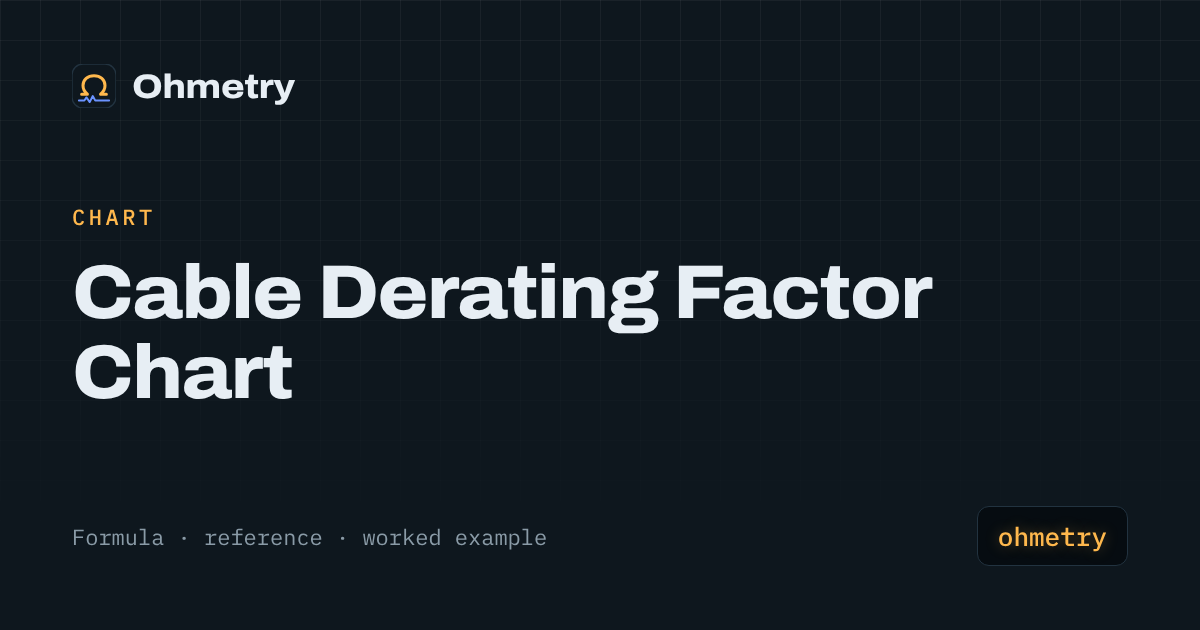
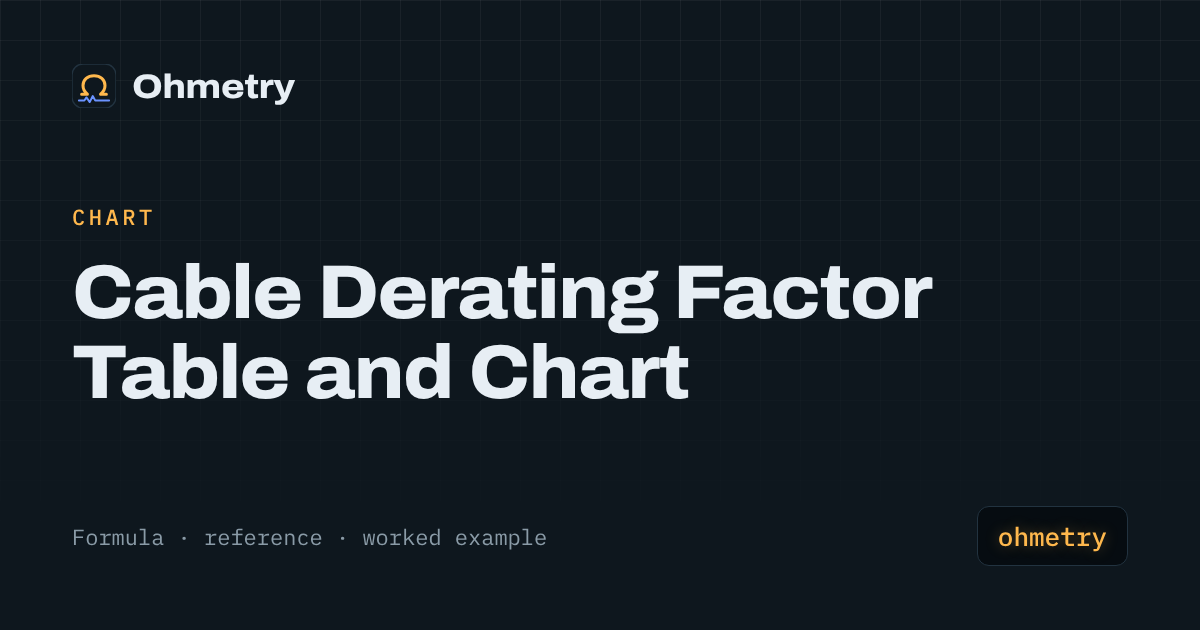
Add neutral conductor current calculator and page; retitle derating chart as a table; shorten megger title
Neutral current from unbalanced phases (phasor sum) and third-harmonic load (3kI1), with tests.
Derating chart title and description now include 'table' and 'de-rating' to match search queries.

Claude-Session: https://claude.ai/code/session_01P7VZ8UCLuzA13PXkdqGsAp

Changed region(s): [[0.0617, 0.5429, 0.5858, 0.6333]]

diff --git a/src/lib/calc/neutral-current.test.ts b/src/lib/calc/neutral-current.test.ts
@@ -1,0 +1,50 @@
+import { describe, expect, it } from 'vitest';
+import { neutralFromPhases, neutralFromThirdHarmonic } from './neutral-current';
+
+describe('neutralFromPhases (unbalanced load, 120 degree phasors)', () => {
+  it('is zero when the phases are balanced', () => {
+    expect(neutralFromPhases(100, 100, 100)).toBeCloseTo(0, 9);
+  });
+  it('equals the phase current when only one phase is loaded', () => {
+    expect(neutralFromPhases(100, 0, 0)).toBeCloseTo(100, 9);
+  });
+  it('equals the phase current when two equal phases are loaded', () => {
+    expect(neutralFromPhases(100, 100, 0)).toBeCloseTo(100, 9);
+  });
+  it('matches the phasor sum for 100, 50, 0 A: sqrt(7500) = 86.60 A', () => {
+    // 100 at 0 deg plus 50 at -120 deg = 75 - j43.30, magnitude 86.60
+    expect(neutralFromPhases(100, 50, 0)).toBeCloseTo(86.6025, 4);
+  });
+  it('does not depend on which phase carries which current', () => {
+    expect(neutralFromPhases(30, 80, 55)).toBeCloseTo(neutralFromPhases(80, 55, 30), 9);
+  });
+  it('rejects negative and non-numeric input', () => {
+    expect(() => neutralFromPhases(-1, 0, 0)).toThrow();
+    expect(() => neutralFromPhases(NaN, 0, 0)).toThrow();
+  });
+});
+
+describe('neutralFromThirdHarmonic (balanced circuit)', () => {
+  it('is zero with no 3rd harmonic', () => {
+    const r = neutralFromThirdHarmonic(100, 0);
+    expect(r.neutralA).toBe(0);
+    expect(r.fundamentalA).toBeCloseTo(100, 9);
+  });
+  it('gives 94.87 A in the neutral for 100 A per phase with a 33.3 % third harmonic', () => {
+    // I1 = 100 / sqrt(1 + 1/9) = 94.868; neutral = 3 * (1/3) * 94.868
+    const r = neutralFromThirdHarmonic(100, 100 / 3);
+    expect(r.fundamentalA).toBeCloseTo(94.8683, 3);
+    expect(r.neutralA).toBeCloseTo(94.8683, 3);
+    expect(r.ratioToPhase).toBeCloseTo(0.9487, 4);
+  });
+  it('gives a neutral larger than the phase current for a 50 % third harmonic: 134.16 A from 100 A', () => {
+    // I1 = 100 / sqrt(1.25) = 89.443; neutral = 3 * 0.5 * 89.443 = 134.16
+    const r = neutralFromThirdHarmonic(100, 50);
+    expect(r.neutralA).toBeCloseTo(134.164, 2);
+    expect(r.ratioToPhase).toBeCloseTo(1.3416, 4);
+  });
+  it('rejects invalid input', () => {
+    expect(() => neutralFromThirdHarmonic(0, 10)).toThrow();
+    expect(() => neutralFromThirdHarmonic(100, -5)).toThrow();
+  });
+});

diff --git a/src/lib/calc/neutral-current.ts b/src/lib/calc/neutral-current.ts
@@ -1,0 +1,35 @@
+/**
+ * Neutral current in a three-phase four-wire circuit, from two situations that can be derived directly.
+ *
+ * 1. Unbalanced load. With phase currents Ia, Ib, Ic that are 120 degrees apart (the same power factor on each phase)
+ *    and no triplen harmonics, the neutral carries the phasor sum:
+ *      In = sqrt( Ia^2 + Ib^2 + Ic^2 - Ia*Ib - Ib*Ic - Ic*Ia )
+ *
+ * 2. Third-harmonic load on a balanced circuit. Triplen harmonics (3rd, 9th, ...) are in phase on all three phases, so
+ *    they add in the neutral instead of cancelling. For a 3rd harmonic of k times the fundamental on each phase:
+ *      phase RMS  = I1 * sqrt(1 + k^2)
+ *      neutral    = 3 * k * I1
+ *    Harmonics that are not triplen (5th, 7th, ...) cancel in the neutral on a balanced circuit.
+ *
+ * These give the current to size the neutral for. The conductor size, the derating that harmonic currents trigger and
+ * whether the neutral may be smaller than the phase conductors come from the standard in force (IEC 60364, NEC, BS 7671).
+ */
+export function neutralFromPhases(ia: number, ib: number, ic: number): number {
+  if (![ia, ib, ic].every(Number.isFinite)) throw new Error('Enter a number for every phase current');
+  if (ia < 0 || ib < 0 || ic < 0) throw new Error('Phase currents cannot be negative');
+  const v = ia * ia + ib * ib + ic * ic - ia * ib - ib * ic - ic * ia;
+  return Math.sqrt(Math.max(0, v));
+}
+
+export interface HarmonicNeutral { fundamentalA: number; neutralA: number; ratioToPhase: number }
+
+/** phaseRmsA is the measured true-RMS current per phase; thirdPct is the 3rd harmonic as a percentage of the fundamental. */
+export function neutralFromThirdHarmonic(phaseRmsA: number, thirdPct: number): HarmonicNeutral {
+  if (![phaseRmsA, thirdPct].every(Number.isFinite)) throw new Error('Enter numbers for the phase current and the 3rd harmonic');
+  if (!(phaseRmsA > 0)) throw new Error('The phase current must be above zero');
+  if (thirdPct < 0) throw new Error('The 3rd harmonic cannot be negative');
+  const k = thirdPct / 100;
+  const fundamentalA = phaseRmsA / Math.sqrt(1 + k * k);
+  const neutralA = 3 * k * fundamentalA;
+  return { fundamentalA, neutralA, ratioToPhase: neutralA / phaseRmsA };
+}

diff --git a/src/components/NeutralCurrent.tsx b/src/components/NeutralCurrent.tsx
@@ -1,0 +1,36 @@
+import { useState } from 'react';
+import { neutralFromPhases, neutralFromThirdHarmonic } from '../lib/calc/neutral-current';
+import { Form, Num, Out, run } from './ui';
+
+export default function NeutralCurrent() {
+  const [a, setA] = useState('100');
+  const [b, setB] = useState('60');
+  const [c, setC] = useState('30');
+  const [ph, setPh] = useState('100');
+  const [h3, setH3] = useState('40');
+  const u = run(() => neutralFromPhases(Number(a), Number(b), Number(c)));
+  const h = run(() => neutralFromThirdHarmonic(Number(ph), Number(h3)));
+  return (
+    <>
+      <Form label="Neutral current from unbalanced phase currents">
+        <div className="grid">
+          <Num label="Phase L1 current (A)" value={a} set={setA} />
+          <Num label="Phase L2 current (A)" value={b} set={setB} />
+          <Num label="Phase L3 current (A)" value={c} set={setC} />
+        </div>
+        <Out error={u.error} items={u.out !== null ? [['Neutral current', `${u.out.toFixed(1)} A`]] : null} />
+      </Form>
+      <Form label="Neutral current from third-harmonic load">
+        <div className="grid">
+          <Num label="Phase current, true RMS (A)" value={ph} set={setPh} hint="Measured with a true-RMS meter" />
+          <Num label="3rd harmonic (% of fundamental)" value={h3} set={setH3} hint="From a power-quality measurement" />
+        </div>
+        <Out error={h.error} items={h.out !== null ? [
+          ['Neutral current', `${h.out.neutralA.toFixed(1)} A`],
+          ['Neutral compared with phase current', `${(h.out.ratioToPhase * 100).toFixed(0)} %`],
+          ['Fundamental per phase', `${h.out.fundamentalA.toFixed(1)} A`],
+        ] : null} />
+      </Form>
+    </>
+  );
+}

diff --git a/src/data/calculators.ts b/src/data/calculators.ts
@@ -24,6 +24,7 @@ export const calculators: Calc[] = [
   { slug: 'voltage-drop-calculator', name: 'Voltage drop', blurb: 'Volts and percent lost in a cable, with optional reactance.', hub: 'electrical' },
   { slug: 'breaker-size-calculator', name: 'Breaker size', blurb: 'Minimum breaker for continuous loads using the 125 % rule.', hub: 'electrical', tag: 'NEC' },
   { slug: 'awg-to-mm2-converter', name: 'AWG to mm²', blurb: 'Wire gauge to area and diameter, and back.', hub: 'electrical' },
+  { slug: 'neutral-conductor-sizing-calculator', name: 'Neutral conductor current', blurb: 'Neutral current from unbalanced phases and third-harmonic load, to size the neutral for.', hub: 'electrical', tag: 'IEC' },
   { slug: 'wire-size-calculator', name: 'Wire size', blurb: 'Conductor size from load, derating and voltage drop.', hub: 'electrical', tag: necTag('wire-size-calculator') },
   { slug: 'conduit-fill-calculator', name: 'Conduit fill', blurb: 'Smallest EMT for a mix of conductors.', hub: 'electrical', tag: necTag('conduit-fill-calculator') },
   { slug: 'motor-circuit-calculator', name: 'Motor circuit', blurb: 'Table full-load current, conductor, overload and device maximum.', hub: 'electrical', tag: necTag('motor-circuit-calculator') },

diff --git a/src/data/site.ts b/src/data/site.ts
@@ -24,7 +24,7 @@ export const site = {
 };
 
 /** Shown on the home page. Update when the test count changes (`npm test`). */
-export const testCount = 259;
+export const testCount = 269;
 
 export const toolkitReady = Boolean(site.gumroadUrl);
 
